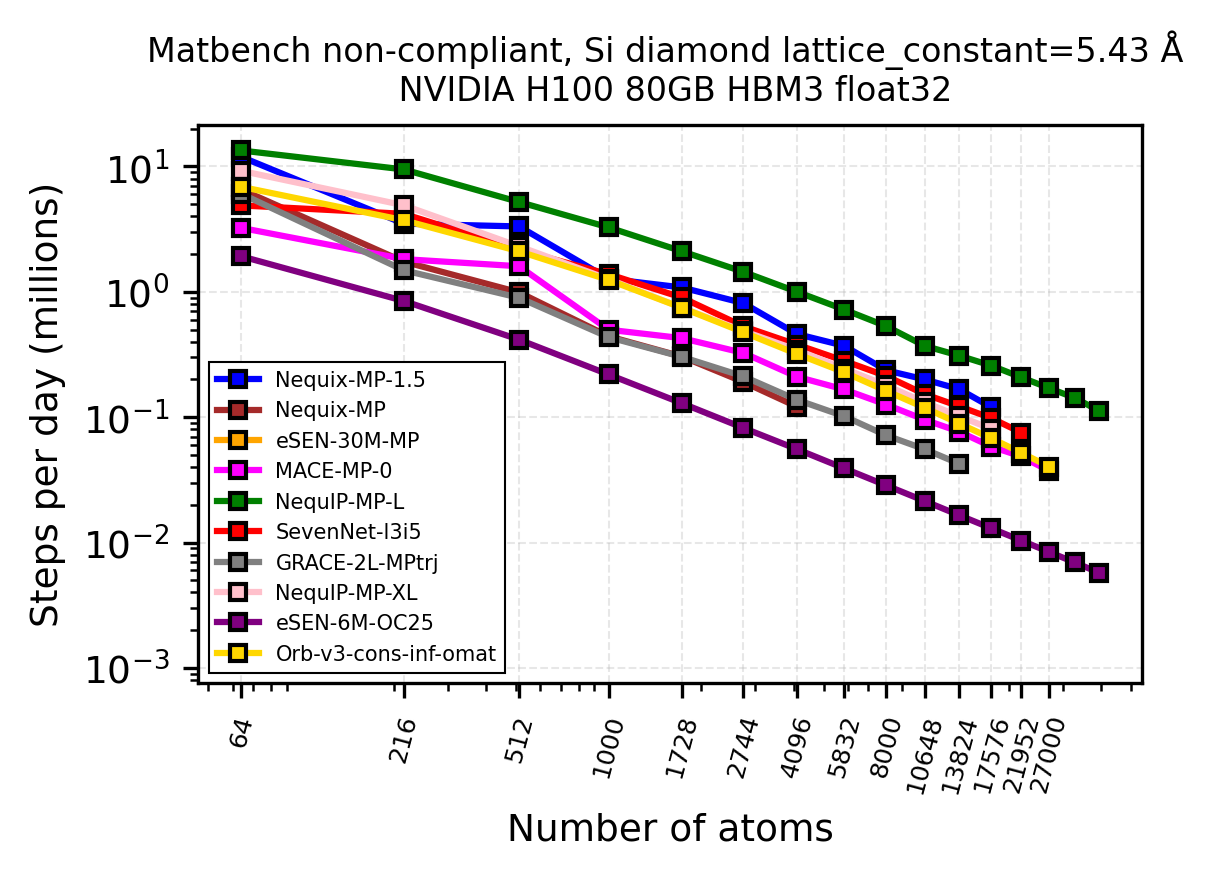
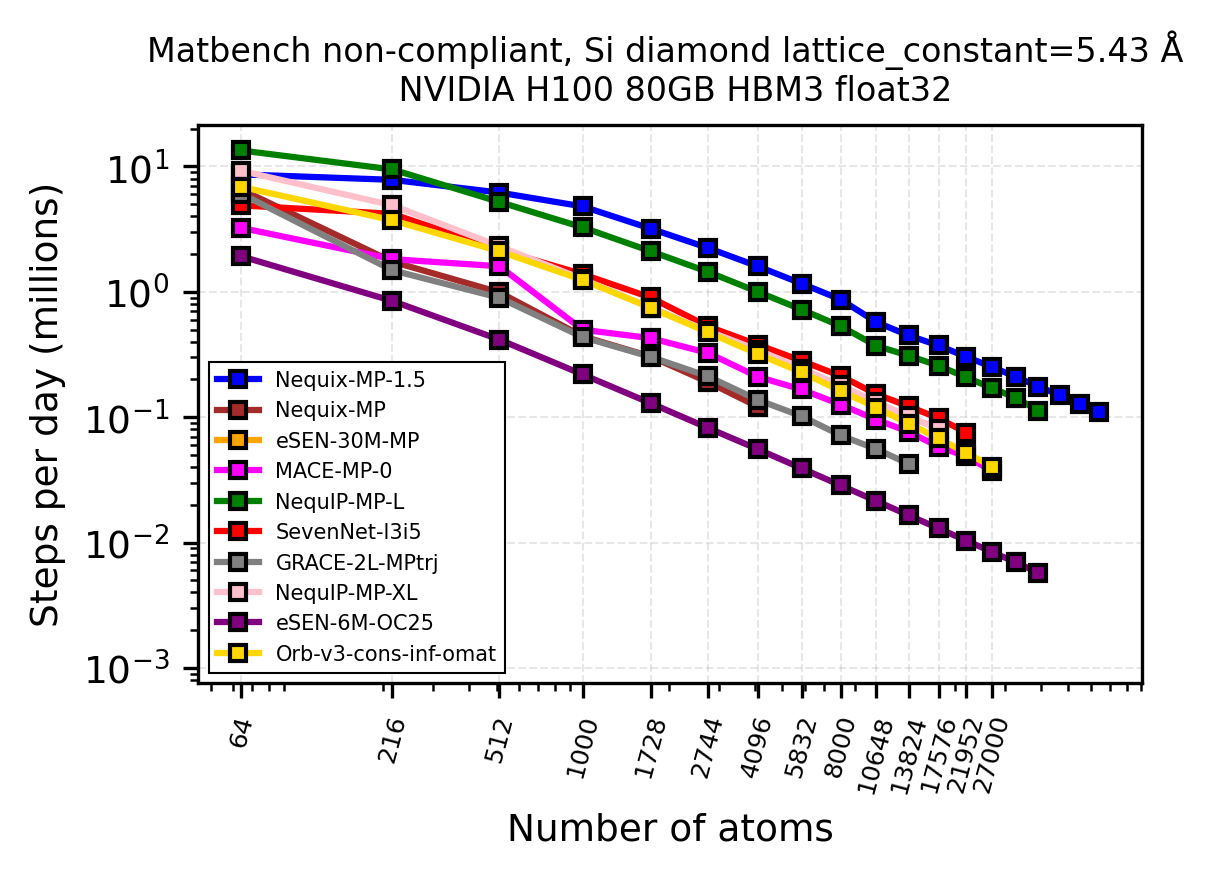
update figures

diff --git a/scripts/make_inference_fig.py b/scripts/make_inference_fig.py
@@ -31,7 +31,7 @@ matplotlib.rcParams['legend.fontsize'] = 8
 our_model = "Nequix-MP-1.5"
 atom_name = "Si"
 lattice_constant = 5.43
-compliant_status = "compliant"
+compliant_status = "non-compliant"
 
 def _series(df: pd.DataFrame, model_name: str) -> tuple[list[int], list[float]]:
     sub = df[df["model"] == model_name].copy()

diff --git a/scripts/benchmark_ase_nequix_torch.py b/scripts/benchmark_ase_nequix_torch.py
@@ -1,6 +1,7 @@
 # /// script
 # requires-python = ">=3.10"
 # dependencies = [
+#    "pip-system-certs",
 #     "ase",
 #     "nequix[torch]",
 #     "matbench_speed",
